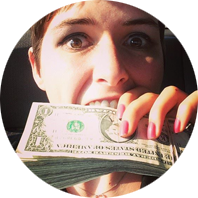
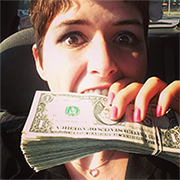
changed to css circle

diff --git a/wp-content/themes/kelleykavanaugh2/style.css b/wp-content/themes/kelleykavanaugh2/style.css
@@ -89,13 +89,16 @@ a:hover {
 .circle {
 	background: url(images/circle1.png) no-repeat;
 	display:block;
-	height: 198px;
-	width: 198px;
+	height: 180px;
+	width: 180px;
 	padding: 0px 0 0px 0px;
 	margin: 0 auto -180px auto; /* Negative brings posts up to bottom of circle */
 	position: relative;
 	top: -178px; /* Negative brings circle up to top of page */
 	border: 0px solid #ff0000;
+	border-radius: 90px; /* circle */
+	-webkit-border-radius: 90px; /* circle */
+	-moz-border-radius: 90px; /* circle */
 }
 .blogtitle {
 	font-family: VeteranTypewriter, "VeteranTypewriter", "Lucida Sans Typewriter", "Lucida Console", Monaco, "Bitstream Vera Sans Mono", monospace;
